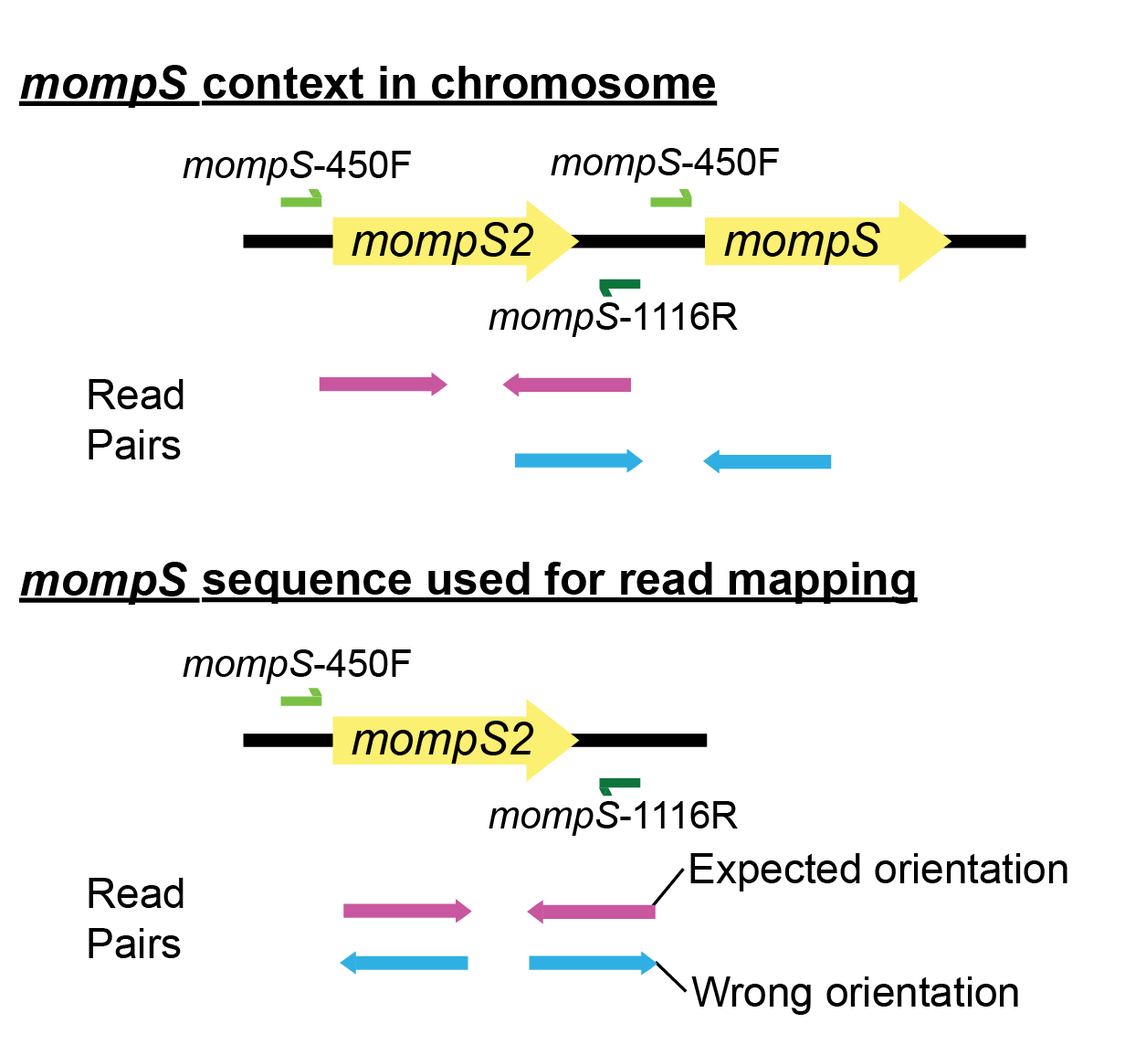
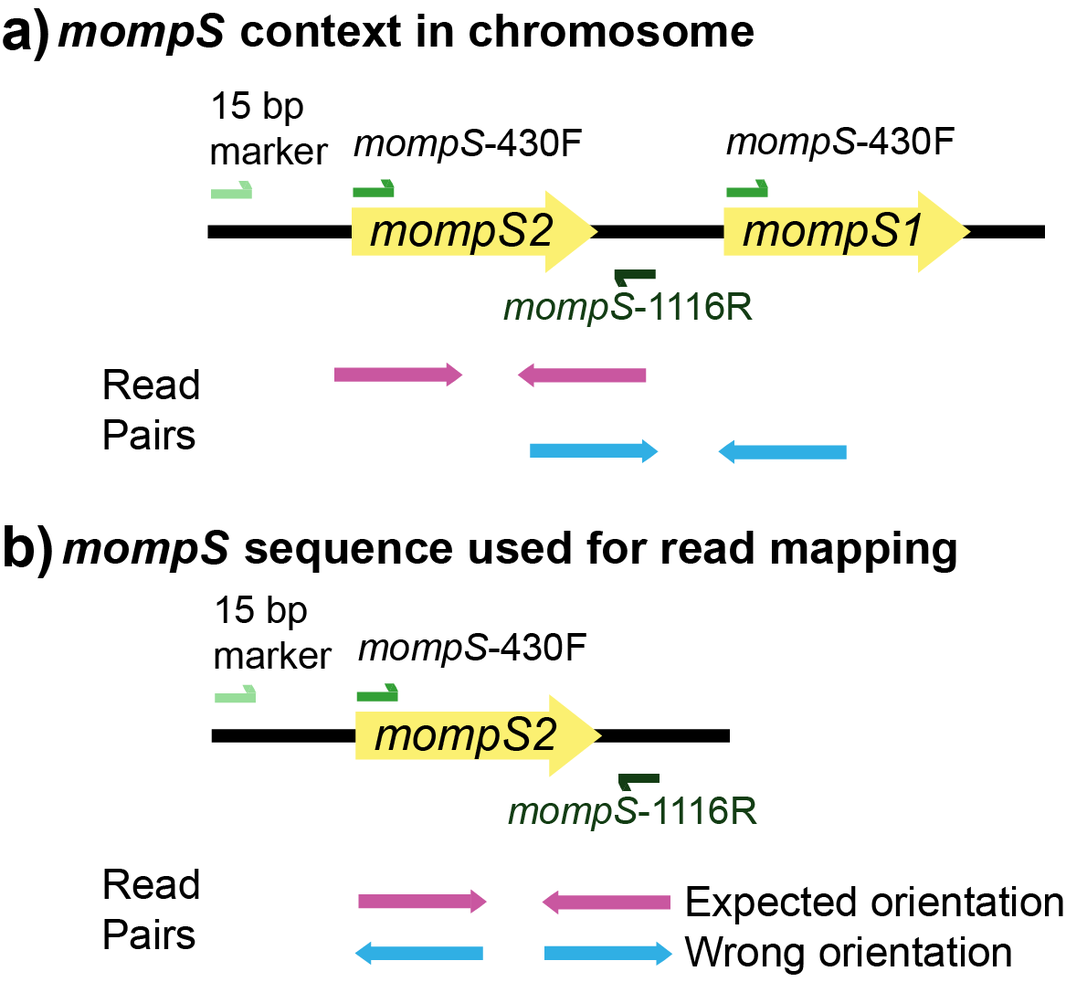
updates to readme

diff --git a/elgato_report.py b/elgato_report.py
@@ -512,10 +512,10 @@ help_message= """
 usage: elgato_report.py [-h] -i INPUT_JSONS [INPUT_JSONS ...] -o OUT_REPORT [-s]
 
 options:
-  -h, --help            show this help message and exit
-  -i, --input_jsons     path to one or more report.json files
-  -o, --out_report      desired output pdf file path
-  -s, --shorten_names   shorten long sample and contig names to prevent line wrapping
+  -h, --help            Show this help message and exit
+  -i, --input_jsons     Path to one or more report.json files
+  -o, --out_report      Desired output pdf file path
+  -s, --shorten_names   Shorten long sample and contig names to prevent line wrapping
   -n, --no_header       Do not include the header in the report
   -d,  --disclaimer_file     Include disclaimer in footer
   --custom_header       Provide custom header as string in your command

diff --git a/el_gato/el_gato.py b/el_gato/el_gato.py
@@ -194,7 +194,7 @@ def get_args() -> argparse.ArgumentParser:
     (2) If only an assembly is provided, a BLAST and in silico PCR based approach is adopted. 
     """, formatter_class=argparse.RawDescriptionHelpFormatter, add_help=False)
     group1 = parser.add_argument_group(title='Input files',
-                                       description="Please specify either reads files and/or a genome assembly file")
+                                       description="Please specify either reads files or a genome assembly file")
     group1.add_argument("--read1", "-1", help="Input Read 1 (forward) file", type=str, required=False,
                         metavar="Read 1 file")
     group1.add_argument("--read2", "-2", help="Input Read 2 (reverse) file", type=str, required=False,

diff --git a/docs/approach.md b/docs/approach.md
@@ -1,6 +1,6 @@
 # Approach
 
-At its core, el_gato uses [BLAST](https://blast.ncbi.nlm.nih.gov/Blast.cgi) to identify the closest match in the ESGLI database to each allele from the input data. For the loci *flaA*, *pilE*, *asd*, *mip*, and *proA*, this process is straight forward. el_gato requires more involved processing for *mompS* and *neuA/neuAh* loci, where el_gato only encounters issues with *neuA/neuAh* when processing reads.
+At its core, el_gato uses [BLAST](https://blast.ncbi.nlm.nih.gov/Blast.cgi) to identify the closest match in the UKHSA database to each allele from the input data. For the loci *flaA*, *pilE*, *asd*, *mip*, and *proA*, this process is straight forward. el_gato requires more involved processing for *mompS* and *neuA/neuAh* loci, where el_gato only encounters issues with *neuA/neuAh* when processing reads.
 
 * [Reads](#reads)
    * [*neuA-neuAh* and Reads](#neua-neuah-and-reads)
@@ -12,57 +12,55 @@ At its core, el_gato uses [BLAST](https://blast.ncbi.nlm.nih.gov/Blast.cgi) to i
 
 ## Reads
 
-When processing reads, identification of both *mompS* and *neuA*/*neuAh* requires additional analyses (described below). The five more straightforward loci (*flaA*, *pilE*, *asd*, *mip*, and *proA*) are processed by mapping the reads to reference loci from [*L. pneumophila* strain Paris](https://www.ncbi.nlm.nih.gov/datasets/genome/GCF_000048645.1/) and identifying the consensus sequence. Then, all alleles are determined using BLAST against the [SBT allele database](https://github.com/CDCgov/el_gato/tree/main/el_gato/db).
+When processing reads, identification of both *mompS* and *neuA*/*neuAh* requires additional analyses (described below). The five more straightforward loci (*flaA*, *pilE*, *asd*, *mip*, and *proA*) are processed by mapping the reads to reference loci from [*L. pneumophila* strain Paris](https://www.ncbi.nlm.nih.gov/nuccore/NC_006368.1/) and identifying the consensus sequence. Then, all alleles are determined using BLAST against the [SBT allele database](https://github.com/CDCgov/el_gato/tree/main/el_gato/db).
 
 A couple of quality control steps are applied when processing the reads:
 
    1. **[Base quality:](https://en.wikipedia.org/wiki/Phred_quality_score)** Any bases with quality scores below 20 are not included when calculating coverage for each position or identifying base calls. 
 
-   2. **[Sequence Coverage:](https://en.wikipedia.org/wiki/Coverage_(genetics))** After excluding low-quality bases, if the generated consensus sequence does not cover 100% of the locus (>= 99% for *neuA*/*neuAh* - see below) at every position, then no attempt to identify the allele is made, and a "-" will be reported. A 
+   2. **[Sequence Coverage:](https://en.wikipedia.org/wiki/Coverage_(genetics))** After excluding low-quality bases, if the generated consensus sequence does not cover 100% of the locus (>= 99% for *neuA*/*neuAh* - see below) at every position, then no attempt to identify the allele is made, and a "-" will be reported. 
 
 <a id="neuA/neuAh"></a>
 ### *neuA-neuAh* and Reads
 
-[The sequence of *neuA*/*neuAh* loci can differ dramatically.](https://doi.org/10.1111/1469-0691.12459) Some *neuA*/*neuAh* alleles are sufficiently diverse that reads from some alleles will not map to others. Accordingly, we map reads to six reference alleles that cover the sequence variation currently represented in the SBT database. The six reference alleles used are the *neuA* allele from strain Paris (neuA_1), the *neuAh* allele from strain Dallas-1E (neuA_201), neuA_207, and three other alleles (neuA_211, neuA_212, neuA_215) whose diversity was recognized during the development of el_gato. The reference sequence with the best mapping — highest number of reads that map to a particular reference — is identified using `samtools coverage` with the caveat that >= 99% of the *neuA*/*neuAh* locus must have coverage of at least ten reads per position (some alleles contain small indels, so 100% is too strict); otherwise a "-" will be reported. Once the reference sequence is selected, BLAST processing is the same as described above. 
+[The sequence of *neuA*/*neuAh* loci can differ dramatically.](https://pubmed.ncbi.nlm.nih.gov/24245827/) Some *neuA*/*neuAh* alleles are sufficiently diverse that reads from some alleles will not map to others. Accordingly, we map reads to six reference alleles that cover the sequence variation currently represented in the SBT database. The six reference alleles used are the *neuA* allele from strain Paris (neuA_1), the *neuAh* allele from strain Dallas-1E (neuA_201), neuA_207, and three other alleles (neuA_211, neuA_212, neuA_215) whose diversity was recognized during the development of el_gato. The reference sequence with the best mapping — highest number of reads that map to a particular reference — is identified using `samtools coverage` with the caveat that >= 99% of the *neuA*/*neuAh* locus must have coverage of at least ten reads per position (some alleles contain small indels, so 100% is too strict); otherwise a "-" will be reported. Once the reference sequence is selected, BLAST processing is the same as described above. 
 
 #### Sequence diversity
 <p align="center">
   <img src="images/neuAMStree.png"  width="768" height: auto />
 </p>
 
-**Figure 1: *neuA/neuAh* Sequence Diversity -** Demonstration of genetic heterogeneity in *neuA/neuAh* (allele group Paris, 1 and allele group Dallas-1E, 201). Numbers in circles are *neuA/neuAh* allele Colored circles indicate reference alleles used for read mapping. Diversity between neuA_1, neuA_201, and neuA_207 was previously recognized. We identified three additional, highly diverse allele groups (211, 212, and 215), which are included for read mapping. The scale bar represents number of single nucleotide polymorphisms (SNPs). 
+**Figure 1: *neuA/neuAh* Sequence Diversity -** Demonstration of genetic heterogeneity in *neuA/neuAh*. Numbers in circles are *neuA/neuAh* alleles. Colored circles indicate reference alleles used for read mapping. Diversity between neuA_1 (allele group Paris), neuA_201 (allele group Dallas-1E), and neuA_207 was previously recognized. We identified three additional, highly diverse allele groups (211, 212, and 215), which are included for read mapping. The scale bar represents number of single nucleotide polymorphisms (SNPs). 
 
 ### *mompS* and reads
 
-[*mompS* is sometimes present in multiple copies in the genome of *L. pneumophila*, though typically two copies.](https://doi.org/10.1016/j.cmi.2017.01.002) Duplicate gene copies pose an obvious challenge for a short read-mapping approach. If two similar sequence copies are present in a genome, reads from either copy may map to the same reference sequence, calling into question which bases are correctly associated with the loci of interest.
+[*mompS* is sometimes present in multiple copies in the genome of *L. pneumophila*, though typically two copies.](https://pubmed.ncbi.nlm.nih.gov/28082190/) Duplicate gene copies pose an obvious challenge for a short read-mapping approach. If two similar sequence copies are present in a genome, reads from either copy may map to the same reference sequence, calling into question which bases are correctly associated with the loci of interest.
 
-el_gato resolves this issue by taking advantage of the proximity of the genome's two copies of *mompS*. [A schematic of the organization of the two *mompS* copies can be found in Fig. 1 in this paper](https://doi.org/10.1016/j.cmi.2017.01.002) or [below](#read-mapping-schematic). The sequence context of the two *mompS* copies is such that the correct copy is immediately upstream of the incorrect copy. Only the correct copy is flanked on either side by sequences corresponding to primers used for conventional SBT (primer pairs: *mompS*-430F and *mompS*-1116R). For this reason, only the correct copy is amplified in conventional SBT [(see below schematic)](#read-mapping-schematic). In contrast, while *mompS*-430F sequences are present upstream of the incorrect copy, the corresponding *mompS*-1116R sequences are not found downstream. Thus, a read orientation approach allows el_gato to evaluate which reads belong to the correct *mompS* copy when using short-read sequencing data.  
+el_gato resolves this issue by taking advantage of the proximity of the genome's two copies of *mompS*. [A schematic of the organization of the two *mompS* copies can be found in Fig. 1 in this paper](https://pubmed.ncbi.nlm.nih.gov/28082190/) or [below](#read-mapping-schematic). The sequence context of the two *mompS* copies is such that the typing copy is immediately upstream of the non-typing copy. Only the typing copy is flanked on either side by sequences corresponding to primers used for conventional SBT (primer pairs: *mompS*-430F and *mompS*-1116R). For this reason, only the typing copy is amplified in conventional SBT [(see below schematic)](#read-mapping-schematic). In contrast, while *mompS*-430F sequences are present upstream of the non-typing copy, the corresponding *mompS*-1116R sequences are not found downstream. Thus, a read orientation approach allows el_gato to evaluate which reads belong to the typing *mompS* copy when using short-read sequencing data.  
  
-*The sequence of *mompS* is resolved through the following process:*
+**The sequence of *mompS* is resolved through the following process:**
 
-1. Reads from *mompS* copies are mapped to a single *mompS* reference sequence flanked by the *mompS*-430F and *mompS*-1116R primer sequences. 
+1. Reads are mapped to the reference mompS sequence (*L. pneumophila* Paris strain, NCBI NC_006368.1), and those aligning to either the typing or non-typing copy of mompS are retained.
 
-2. The nucleotide sequence of reads is recorded for each position within the *mompS* sequence. If the base at a particular position is heterogeneous in more than 30% of reads mapped to that position, the position is considered biallelic, and both bases are recorded. This happens when more than one copy of *mompS* is present. If only one copy of *mompS* is present or there are multiple identical copies, then no biallelic sites will be found. In this case, the sequence will be extracted, and an allele can be identified using BLAST. 
+2. el_gato examines the nucleotide sequence for each position within reads mapped to *mompS*. If more than 30% of the reads show base heterogeneity at a position, it is considered biallelic. When no biallelic positions are detected, el_gato extracts the *mompS* sequence and uses `BLASTn` to determine the allele number. In contrast, the presence of biallelic positions indicates multiple distinct *mompS* copies. In this case, el_gato identifies individual read pairs that map to biallelic positions and uses them to reconstruct the sequence of each possible allele. 
 
-3. If multiple biallelic positions are identified, all sequences are recorded, and individual read pairs are identified, which map to each biallelic position(s). 
+3. el_gato identifies the typing copy of *mompS* by analysing read orientation relative to two diagnostic sequences flanking the locus. The first is a 15 bp marker upstream of the typing copy (5′-GTTATCAATAAAATG-3′), previously described by [Gordon et al. (2017)](https://pubmed.ncbi.nlm.nih.gov/28082190/). Read pairs containing this marker can therefore be assigned to the typing copy. The second marker, the mompS-1116R primer sequence, lies between the two *mompS* loci and is downstream of the typing copy but only upstream from the non-typing copy. The orientation of reads containing the mompS-1116R primer sequence, relative to the typing copy, is used to infer which copy is the typing locus. For read pairs where one or both reads map to at least one biallelic site, el_gato applies the following rules to assign reads to the typing copy: 
 
-4. The correct allele for SBT is identified by analyzing the reads associated with each allele.d those reads are searched for the *mompS*-1116R reverse primer sequence. The orientation of the reads that contain the primer sequence is assessed. If the primer maps 3'-5' relative to the reference sequence (i.e., in the reverse direction), this is consistent with the read pair originating from the correct copy of *mompS*. However, if the read containing the primer maps 5'-3' (i.e., in the forward direction) relative to *mompS*, this is consistent with the read pair originating from possibly the wrong copy of *mompS*. 
+    1. Only one allele has reads with the mompS-1116R sequence in the expected orientation (3′–5′).
 
-5. The number of reads associated with each allele that contains the primer in the correct orientation relative to *mompS* is counted and compared. The correct allele is then chosen using the following criteria:  
+    2. One allele has >3× as many reads with the mompS-1116R primer sequence in the expected orientation (3′–5′) compared to the other allele.  
 
-    1. Only one allele has associated reads with primer *mompS*-1116R correctly oriented.  
+    3. One allele has no reads with the mompS-1116R primer sequence in either orientation, while the other allele has reads with the mompS-1116R sequence in the incorrect orientation (5′–3′). In that case, the allele without the mompS-1116R sequence is considered the typing copy.
 
-    2. One allele has more than three times as many reads with correctly oriented primer as the other.  
+    4. Reads from one allele contain the upstream 15 bp diagnostic marker (at the start of the 987 bp *mompS* reference sequence) in the expected 5′–3′ orientation, while the other allele does not. These reads act as secondary evidence that the allele represents the typing copy.
 
-    3. One allele has no associated reads with the primer *mompS*-1116R in either orientation, but the other allele has associated reads with the primer in only the wrong orientation. In this case, the allele with no associated reads with the primer in either orientation is considered the primary locus by the process of elimination.
+    5. If no reads contain either the mompS-1116R primer sequence with the correct orientation or upstream 15 bp diagnostic marker, el_gato cannot identify the typing copy. 
 
-    4. Absence of primer-associated reads does not allow identification of the primary allele.
-
-6. el_gato then uses BLAST to determine the allele number for *mompS* and generates the ST based on the identified allele numbers for the seven SBT genes. 
+4. el_gato then uses `BLASTn` to determine the allele number for the typing *mompS* copy. 
 
 If the above process cannot identify the correct sequence, a `?` will be returned as the *mompS* allele, and el_gato will report information about the steps in this process in the [output files](input_output.md/#output-files).
 
-*Note:* The above process depends upon read pairs mapping to biallelic sites and the mompS-1116R primer region, sequence data characteristics such as read length and insert size can impact the ability of el_gato to resolve *mompS* alleles. 
+*Note:* The above process depends upon read pairs mapping to biallelic sites and the mompS-1116R primer region, sequence data characteristics such as read length and insert size can impact the ability of el_gato to resolve alleles. 
 
 #### Read mapping schematic
 
@@ -74,10 +72,10 @@ If the above process cannot identify the correct sequence, a `?` will be returne
 
 ## Assembly
 
-Six of the seven loci (*flaA*, *pilE*, *asd*, *mip*,*proA*, and *neuA/neuAh*) are identified using BLAST against the SBT allele database. The closest match is returned with an \* if loci have no exact match. Only *mompS* requires extra when processing an assembly.
+Six of the seven loci (*flaA*, *pilE*, *asd*, *mip*,*proA*, and *neuA/neuAh*) are identified using BLAST against the SBT allele database. The closest match is returned with an `*` if loci have no exact match. Only *mompS* requires extra when processing an assembly.
 
 ### *mompS* and assemblies
 
-[*mompS* is sometimes present in multiple copies in *Legionella pneumophila*, though typically two copies.](https://doi.org/10.1016/j.cmi.2017.01.002) When typing *L. pneumophila* using Sanger sequencing, primers amplify only the correct *mompS* locus. We, therefore, use [*in silico* PCR](https://users.soe.ucsc.edu/~kent/) to extract the correct *mompS* locus sequence from assemblies. The primers used for *in silico* PCR are *mompS*-450F (TTGACCATGAGTGGGATTGG) and *mompS*-1116R (TGGATAAATTATCCAGCCGGACTTC) [as described in this protocol](https://doi.org/10.1007/978-1-62703-161-5_6). The *mompS* allele is then identified using BLAST against the SBT database. 
+[*mompS* is sometimes present in multiple copies in *Legionella pneumophila*, though typically two copies.](https://pubmed.ncbi.nlm.nih.gov/28082190/) When typing *L. pneumophila* using Sanger sequencing, primers amplify only the correct *mompS* locus. We, therefore, use [*in silico* PCR](https://users.soe.ucsc.edu/~kent/) to extract the correct *mompS* locus sequence from assemblies. The primers used for *in silico* PCR are mompS-430F (TTGACCATGAGTGGGATTGG) and mompS-1126R (TGGATAAATTATCCAGCCGGACTTC) [as described in this protocol](https://doi.org/10.1007/978-1-62703-161-5_6). The *mompS* allele is then identified using BLAST against the SBT database. 
 
 *Note:* This method does not perform as well as sequence typing using Illumina reads due to information loss (read orientation and quality metrics) when generating an assembly. Furthermore, because of this lack of information, no additional quality filtering is undertaken in el_gato when the assembly method is used. 

diff --git a/docs/input_output.md b/docs/input_output.md
@@ -15,19 +15,19 @@
    
 ## Input files
 
-If available, **we recommend using raw or trimmed reads instead of assemblies**, as the extra data contained in reads is valuable for the process used by el_gato to identify sample ST. When run with reads, el_gato can use read quality and coverage information to apply quality control rules. When run using assemblies, el_gato cannot identify errors incorporated into the assembly and may report incorrect results. For example, while many isolates encode two copies of mompS, in some cases, the assembly includes only one copy of the locus. If the assembly consists of only the secondary mompS locus, el_gato will report that allele.
+If available, **we recommend using raw or trimmed reads instead of assemblies**, as the extra data contained in reads is valuable for the process used by el_gato to identify the sample ST. When run with reads, el_gato can use read quality and coverage information to apply quality control rules. When run using assemblies, el_gato cannot identify errors incorporated into the assembly and may report incorrect results. For example, while many isolates encode two copies of *mompS*, in some cases, the assembly includes only one copy of the locus. If the assembly consists of only the non-typing *mompS* locus, el_gato will report that allele instead of the typing *mompS* locus.
 
 #### Pair-end reads
-When running on a directory of reads, files are associated as pairs using the *_R1 *_R2 pattern i.e., filenames should be identical except for containing either "R1" or "R2" and can be .fastq or .fastq.gz format. el_gato will not process any files for which it cannot identify a pair using this pattern. 
+When running on a set of reads, files are associated as pairs using the `*_R1` `*_R2` pattern i.e., filenames should be identical except for containing either `R1` or `R2` and can be `.fastq` or `.fastq.gz` format. el_gato will not process any files for which it cannot identify a pair using this pattern. 
 
 #### Genome assemblies
-When running on a directory of assemblies, el_gato will process all files in the target directory, and no filename restrictions exist.
+When running on an assembly, el_gato will process all files in the target directory with no filename restrictions.
 
 ## Output 
 After a run, el_gato will print the identified ST of your sample to your terminal ([stdout](#standard-out)) and write several files to the specified output directory (default: out/). el_gato creates a subdirectory for each processed sample, including five output files with specific information.
 
 #### Standard out
-el_gato writes the ST profile as a tab-delimited table without headings. If you run el_gato with the `-e` flag, it includes the headings and displays them like this: 
+el_gato writes the ST profile as a tab-delimited table without headings. If you run el_gato with the `-e` flag, it includes the headings and displays them as so: 
 
 `Sample  ST flaA  pilE  asd   mip   mompS proA  neuA_neuAH`    
 
@@ -41,15 +41,15 @@ el_gato writes the ST profile as a tab-delimited table without headings. If you 
 
 | Symbol | Meaning |
 |:------:|:---------|
-| Novel ST      | Novel Sequence Type: the alleles for all 7 loci were identified, however their unique combination and corresponding ST has not been found in the database. |
-| Novel ST*      | Novel Sequence Type due to novel allele: an exact match for sequences of at least one locus was not identified in the database, which may indicate a novel allele.. |
-| MA?      | **M**ultiple **A**lleles: for at least one locus, multiple alleles were identified, and the true allele could not be resolved; therefore, no ST could be determined. |
-| ?      | Multiple Alleles: for this locus multiple alleles were identified, and could not be resolved. |
-| MD-      | **M**issing **D**ata: data were missing for at least one locus (e.g., low read coverage at one or more position, missing sequence in assembly); therefore, no ST could be determined.  |
-| -      | missing data; data were missing for this locus (e.g., low read coverage at one or more position, missing sequence in assembly); therefore, an allele number could not be determined. |
-| NAT    | **N**ovel **A**llele **T**ype: this locus did not match any allele listed in the database, possibly indicating a novel allele. |
+| Novel ST      | **Novel** **S**equence **T**ype: the alleles for all 7 loci were identified, however their unique combination and corresponding ST has not been found in the database. |
+| `Novel ST*`      | **Novel** **S**equence **T**ype due to novel allele: an exact match for sequences of at least one locus was not identified in the database, which may indicate a novel allele. |
+| `MA?`      | **M**ultiple **A**lleles: for at least one locus, multiple alleles were identified, and the true allele could not be resolved; therefore, no ST could be determined. |
+| `?`      | Multiple Alleles: for this locus multiple alleles were identified, and could not be resolved. |
+| `MD-`      | **M**issing **D**ata: data were missing for at least one locus (e.g., low read coverage at one or more position, missing sequence in assembly); therefore, no ST could be determined.  |
+| `-`      | missing data; data were missing for this locus (e.g., low read coverage at one or more position, missing sequence in assembly); therefore, an allele number could not be determined. |
+| `NAT`    | **N**ovel **A**llele **T**ype: this locus did not match any allele listed in the database, possibly indicating a novel allele. |
 
-If symbols are present in the ST profile, the other output files produced by el_gato will provide information to clarify the source of the symbol.
+If symbols appear in the ST profile, the other output files produced by el_gato will provide addtional information explaining  why that locus could not be identified.
 
 ## Output files
 
@@ -70,10 +70,10 @@ el_gato calls other programs to perform intermediate analyses. The outputs of th
 * BLAST output indicating the best match for identified alleles. [See BLAST output documentation for more information about headers](https://www.ncbi.nlm.nih.gov/books/NBK279684/table/appendices.T.options_common_to_all_blast/) or [here.](headers.md/#blastn-output-headers)
 
 #### possible_mlsts.txt
-This file contains all possible ST profiles if el_gato identifies multiple possible alleles for any ST loci. In addition, if multiple *mompS* alleles are found, the information used to determine the primary allele is reported in this file in the "mompS_reads_support" and "mompS_reads_against" columns. mompS_reads_support indicates the number of reads associated with each allele that contains the reverse sequencing primer in the expected orientation, suggesting that this is the primary allele. mompS_reads_against indicates the number of reads containing the reverse sequencing primer in the wrong orientation and thus suggesting that this is the secondary allele. These values are used to infer which allele is the primary *mompS* allele, and their values can be considered to represent the confidence of this characterization. [See Approach subsection for more details](approach.md).
+This file contains all possible ST profiles if el_gato identifies multiple possible alleles for any ST loci. In addition, if multiple *mompS* alleles are found, the information used to determine the typing allele is reported in this file in the `mompS_reads_support` and `mompS_reads_against` columns. `mompS_reads_support` indicates the number of reads associated with each allele that contains the reverse sequencing primer in the expected orientation, suggesting that this is the typing allele. `mompS_reads_against` indicates the number of reads containing the reverse sequencing primer in the wrong orientation and thus suggesting that this is the non-typing allele. These values are used to infer which allele is the typing *mompS* allele, and their values can be considered to represent the confidence of this characterization. [See Approach subsection for more details](approach.md).
 
 #### reads_vs_all_ref_filt_sorted.bam 
-el_gato maps the provided reads to [a set of reference sequences in the el_gato db directory](https://github.com/appliedbinf/el_gato/blob/main/el_gato/db/ref_gene_regions.fna). The mapped reads are then used to extract the sequences present in the sample to identify the alleles and, ultimately, the ST. reads_vs_all_ref_filt_sorted.bam and its associated file reads_vs_all_ref_filt_sorted.bai contains the mapping information used by el_gato. The BAM file can be viewed using software such as [IGV](https://software.broadinstitute.org/software/igv/) to understand better the data used by el_gato to make allele calls. Additionally, this file is a good starting point for investigating the cause of incorrectly resolved loci.
+el_gato maps the provided reads to [a set of reference sequences in the el_gato db directory](https://github.com/CDCgov/el_gato/blob/main/el_gato/db/ref_gene_regions.fna). The mapped reads are then used to extract the sequences present in the sample to identify the alleles and, ultimately, the ST. reads_vs_all_ref_filt_sorted.bam and its associated file reads_vs_all_ref_filt_sorted.bai contains the mapping information used by el_gato. The BAM file can be viewed using software such as [IGV](https://software.broadinstitute.org/software/igv/) to understand better the data used by el_gato to make allele calls. Additionally, this file is a good starting point for investigating the cause of incorrectly resolved loci.
 
 #### reads_vs_all_ref_filt_sorted.bam.bai 
 Index files allow programs that can read them to work with the data in the associated files.

diff --git a/docs/reporting_module.md b/docs/reporting_module.md
@@ -24,10 +24,10 @@ Usage information printed when running elgato_report.py with `-h` or `--help`
 
 ```
 options:
-  -h, --help            show this help message and exit
-  -i, --input_jsons     path to one or more report.json files
-  -o, --out_report      desired output pdf file path
-  -s, --shorten_names   shorten long sample and contig names to prevent line wrapping
+  -h, --help            Show this help message and exit
+  -i, --input_jsons     Path to one or more report.json files
+  -o, --out_report      Desired output pdf file path
+  -s, --shorten_names   Shorten long sample and contig names to prevent line wrapping
   -n, --no_header       Do not include the header in the report
   -d,  --disclaimer     Include disclaimer in footer
   --custom_header       Provide a custom header as a string in your command
@@ -40,7 +40,7 @@ A description of the sections that are generated when using the el_gato reportin
 
 * **Definitions Overview page**: ST definitions key and evidence for support of *mompS* allele call key.
 
-* **Paired-end reads**: Locus coverage information and *mompS* primer information parsed by each sample.  
+* **Paired-end Reads**: Locus coverage information and *mompS* primer information parsed by each sample.  
 
 * **Assembly**: BLAST hit length and sequence identity thresholds and locus location information parsed by each sample.  
 
@@ -50,4 +50,4 @@ A description of the sections that are generated when using the el_gato reportin
   <img src="images/reportExampleUpdate.png"  width="768" height: auto />
 </p>
 
-**Figure 1: Example report** -This report was generated using the elgato_report.py script and only shows the first summary page of the report. 
+**Figure 1: Example report** -This report was generated using the elgato_report.py script and only shows the Report Summary page of the report. 

diff --git a/README.md b/README.md
@@ -83,7 +83,7 @@ Legionella in silico SBT script.
     (2) If only an assembly is provided, a BLAST and in silico PCR based approach is adopted. 
 
 Input files:
-  Please specify either reads files and/or a genome assembly file
+  Please specify either reads files or a genome assembly file
 
   --read1 Read 1 file, -1 Read 1 file
                         Input Read 1 (forward) file
